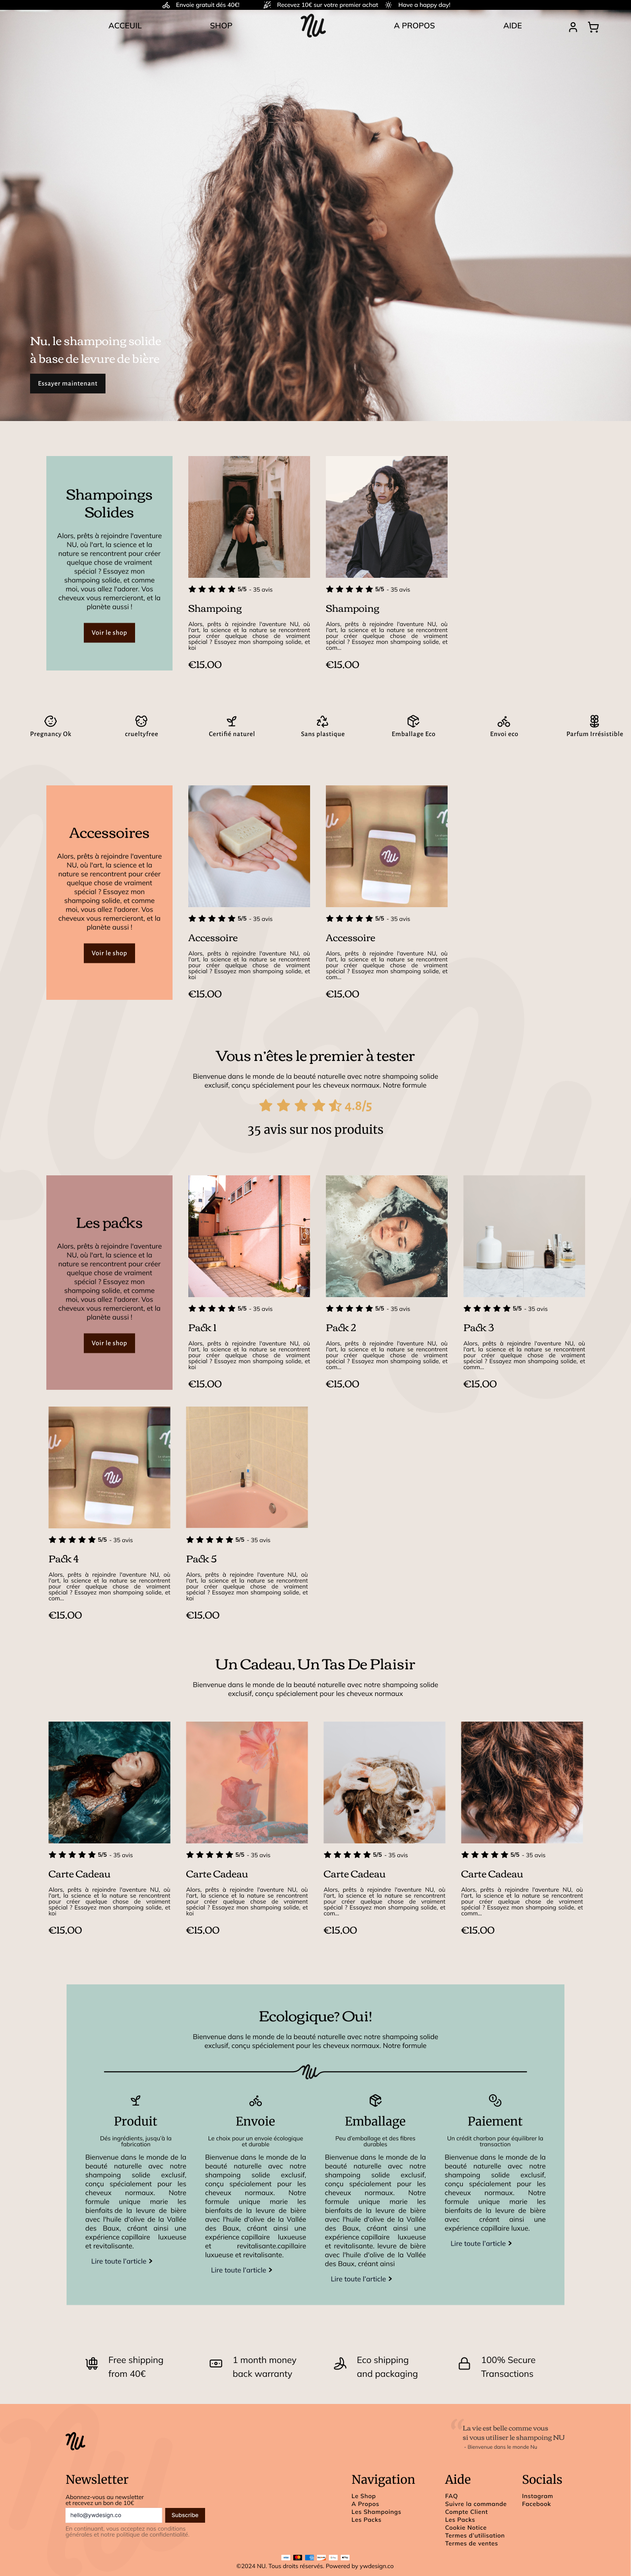
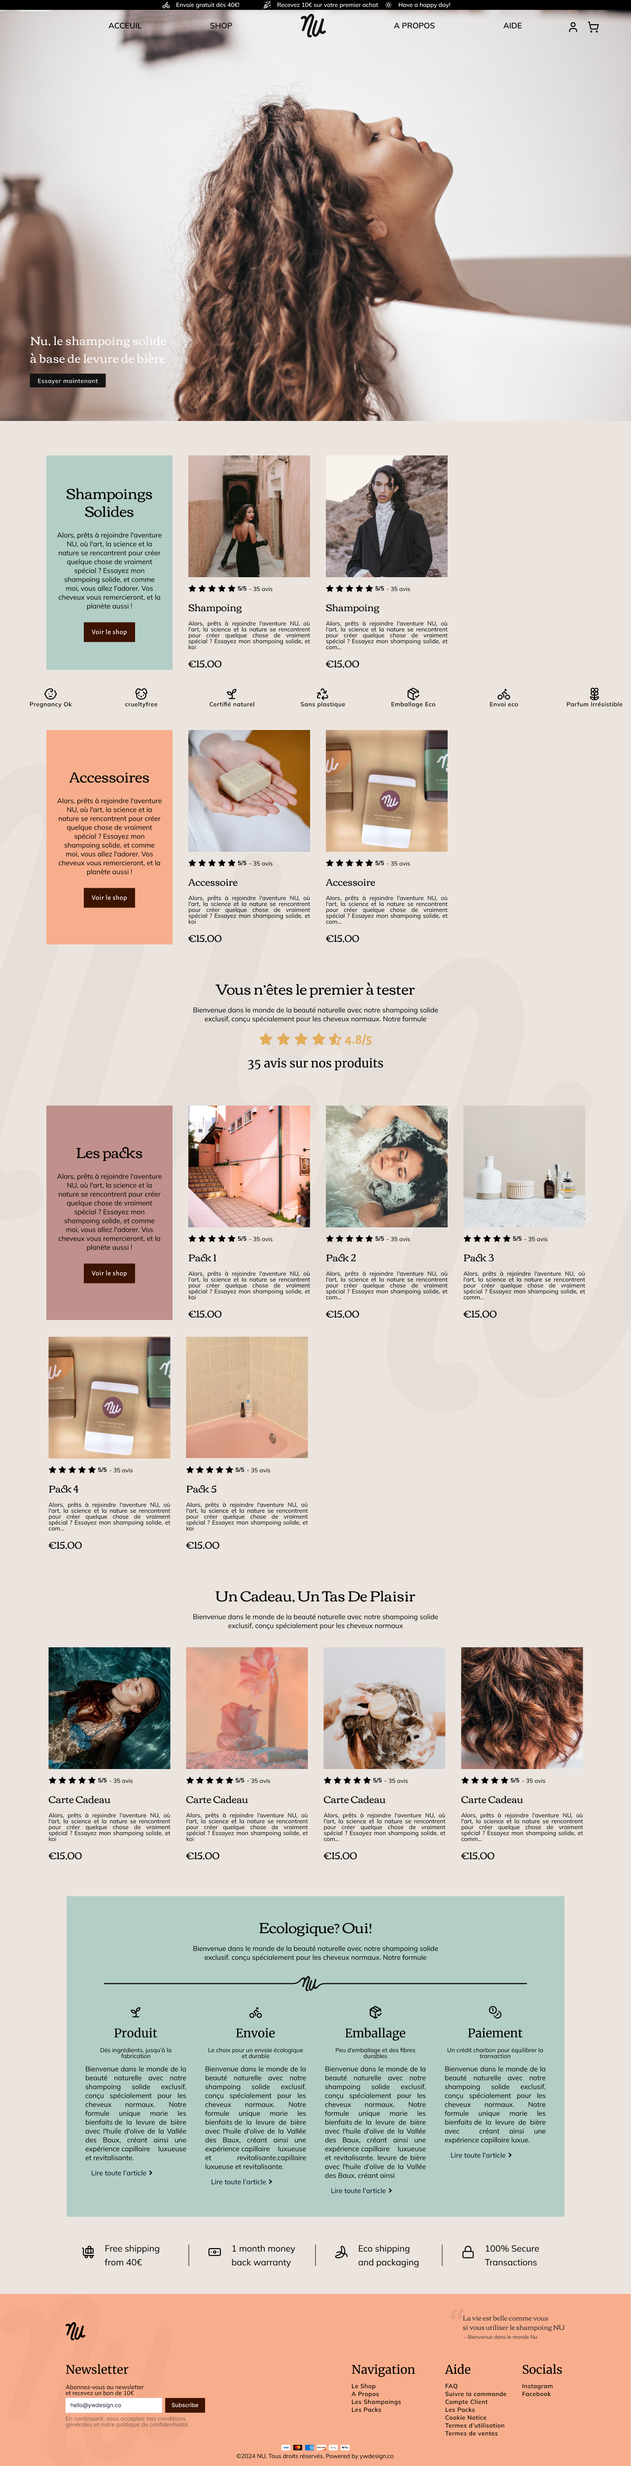
max w screen

Changed region(s): [[0.0, 0.0312, 1.0, 0.6548], [0.0625, 0.6548, 0.9375, 0.9978], [0.2188, 0.0, 0.3438, 0.0312]]

diff --git a/app/(root)/page.tsx b/app/(root)/page.tsx
@@ -36,7 +36,7 @@ export default function Home() {
           // rel="noopener noreferrer"
         >
           <h2 className={`mb-3 text-xl font-semibold`}>
-            Accueil v2.0 <span className="inline-block transition-transform group-hover:translate-x-1 motion-reduce:transform-none"> →</span>
+            Accueil v2.0 <span className="inline-block transition-transform group-hover:translate-x-1 motion-reduce:transform-none">{">"}</span>
           </h2>
           <p className={`m-0 max-w-[30ch] text-sm opacity-50`}>{`Une simulation de la page d'accueil.`}</p>
         </a>
@@ -48,7 +48,7 @@ export default function Home() {
           // rel="noopener noreferrer"
         >
           <h2 className={`mb-3 text-xl font-semibold`}>
-            Shop v2.0 <span className="inline-block transition-transform group-hover:translate-x-1 motion-reduce:transform-none"> →</span>
+            Shop v2.0 <span className="inline-block transition-transform group-hover:translate-x-1 motion-reduce:transform-none">{">"}</span>
           </h2>
           <p className={`m-0 max-w-[30ch] text-sm opacity-50`}>Bienvenu au shop NU.</p>
         </a>
@@ -60,7 +60,7 @@ export default function Home() {
           // rel="noopener noreferrer"
         >
           <h2 className={`mb-3 text-xl font-semibold`}>
-            A Propos v2.0 <span className="inline-block transition-transform group-hover:translate-x-1 motion-reduce:transform-none"> →</span>
+            A Propos v2.0 <span className="inline-block transition-transform group-hover:translate-x-1 motion-reduce:transform-none">{">"}</span>
           </h2>
           <p className={`m-0 max-w-[30ch] text-sm opacity-50`}>Les proportions de cette page changera encore.</p>
         </a>
@@ -72,7 +72,7 @@ export default function Home() {
           // rel="noopener noreferrer"
         >
           <h2 className={`mb-3 text-xl font-semibold`}>
-            Produit v2.0 <span className="inline-block transition-transform group-hover:translate-x-1 motion-reduce:transform-none"> →</span>
+            Produit v2.0 <span className="inline-block transition-transform group-hover:translate-x-1 motion-reduce:transform-none">{">"}</span>
           </h2>
           <p className={`m-0 max-w-[30ch] text-sm opacity-50`}>{`Une page détaillée d'un produit.`}</p>
         </a>
@@ -83,7 +83,7 @@ export default function Home() {
           // rel="noopener noreferrer"
         >
           <h2 className={`mb-3 text-xl font-semibold`}>
-            Article v2.0 <span className="inline-block transition-transform group-hover:translate-x-1 motion-reduce:transform-none"> →</span>
+            Article v2.0 <span className="inline-block transition-transform group-hover:translate-x-1 motion-reduce:transform-none">{">"}</span>
           </h2>
           <p className={`m-0 max-w-[30ch] text-sm opacity-50`}>{`Une simulation d'un article de la Gazette Nu.`}</p>
         </a>

diff --git a/app/(root)/shop/page.tsx b/app/(root)/shop/page.tsx
@@ -9,8 +9,8 @@ export default function Home() {
         src="/Shop_v2.png"
         // className=""
         alt="La page Shop"
-        onLoadingComplete={() => setLoaded(true)}
-        className={`w-screen ${loaded ? "opacity-100" : "h-0 opacity-0"} transition-opacity duration-1000`}
+        onLoad={() => setLoaded(true)}
+        className={`w-full ${loaded ? "opacity-100" : "h-0 opacity-0"} max-w-7xl mx-auto transition-opacity duration-1000`}
         width={1280}
         height={5922}
         quality={100}

diff --git a/app/(root)/apropos/page.tsx b/app/(root)/apropos/page.tsx
@@ -10,8 +10,8 @@ export default function Home() {
         src="/apropos_v2.png"
         // className=""
         alt="La page A propos"
-        onLoadingComplete={() => setLoaded(true)}
-        className={`w-screen ${loaded ? "opacity-100" : "h-0 opacity-0"} transition-opacity duration-1000`}
+        onLoad={() => setLoaded(true)}
+        className={`w-full ${loaded ? "opacity-100" : "h-0 opacity-0"} transition-opacity duration-1000`}
         width={1280}
         height={5922}
         quality={100}

diff --git a/app/(root)/produit/page.tsx b/app/(root)/produit/page.tsx
@@ -10,8 +10,8 @@ export default function Home() {
         src="/Produit_v2.png"
         // className=""
         alt="La page A propos"
-        onLoadingComplete={() => setLoaded(true)}
-        className={`w-screen ${loaded ? "opacity-100" : "h-0 opacity-0"} transition-opacity duration-1000`}
+        onLoad={() => setLoaded(true)}
+        className={`w-full ${loaded ? "opacity-100" : "h-0 opacity-0"} transition-opacity duration-1000`}
         width={1280}
         height={5922}
         quality={100}

diff --git a/app/(root)/accueil/page.tsx b/app/(root)/accueil/page.tsx
@@ -11,8 +11,8 @@ export default function Home() {
         src="/Accueil_v2.png"
         // className=""
         alt="La page Accueil"
-        onLoadingComplete={() => setLoaded(true)}
-        className={`w-screen ${loaded ? "opacity-100" : "h-0 opacity-0"} transition-opacity duration-1000`}
+        onLoad={() => setLoaded(true)}
+        className={`w-full ${loaded ? "opacity-100" : "h-0 opacity-0"} transition-opacity duration-1000`}
         width={1280}
         height={5922}
         quality={100}

diff --git a/app/(root)/article/page.tsx b/app/(root)/article/page.tsx
@@ -10,8 +10,8 @@ export default function Home() {
         src="/Blog_v2.png"
         // className=""
         alt="La page Blog"
-        onLoadingComplete={() => setLoaded(true)}
-        className={`w-screen ${loaded ? "opacity-100" : "h-0 opacity-0"} transition-opacity duration-1000`}
+        onLoad={() => setLoaded(true)}
+        className={`w-full ${loaded ? "opacity-100" : "h-0 opacity-0"} transition-opacity duration-1000`}
         width={1280}
         height={5922}
         quality={100}
